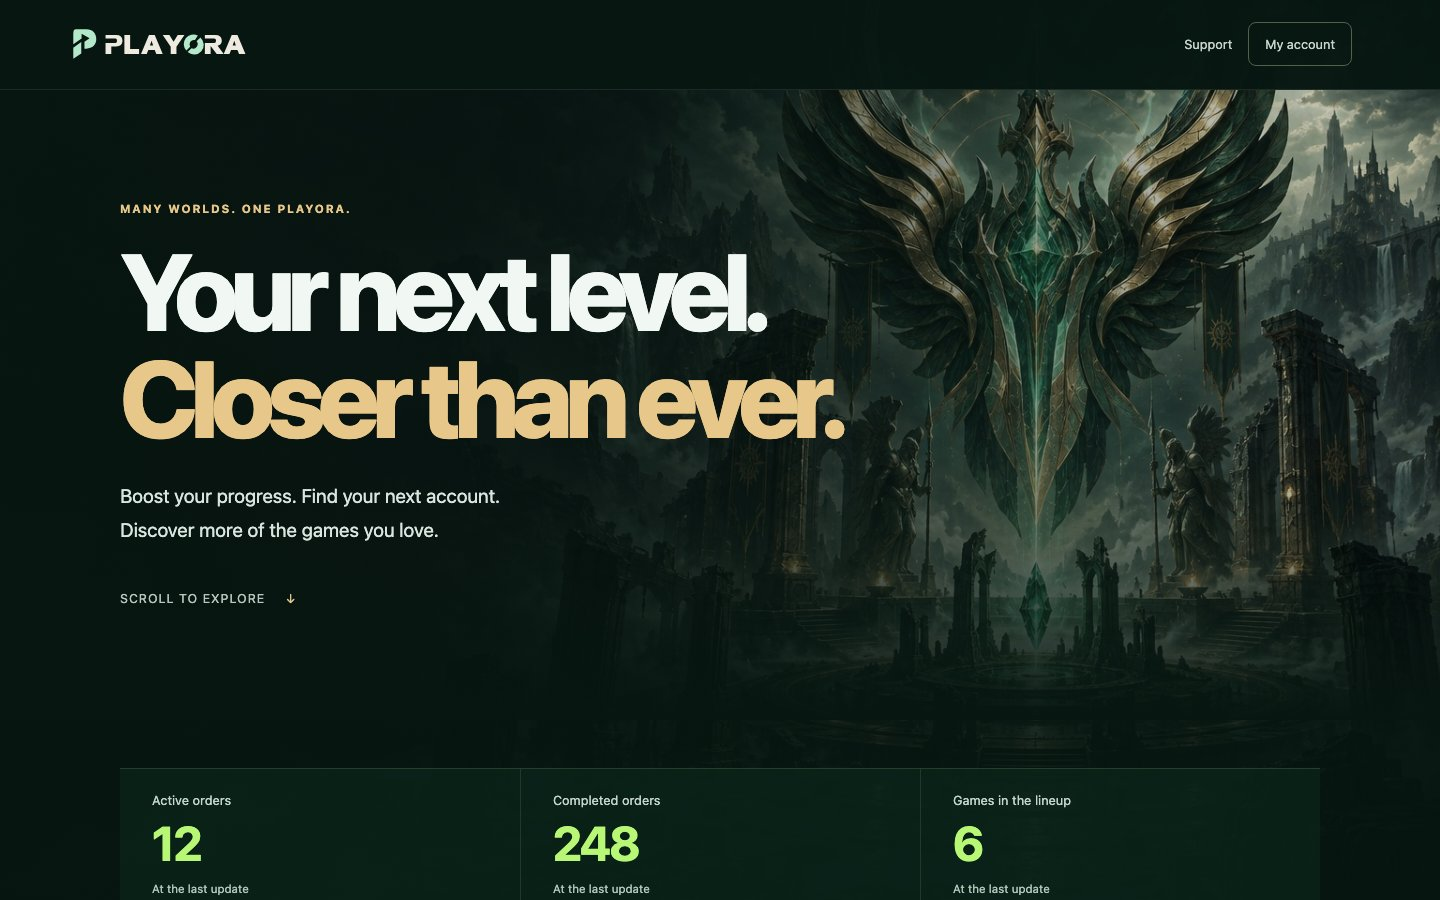
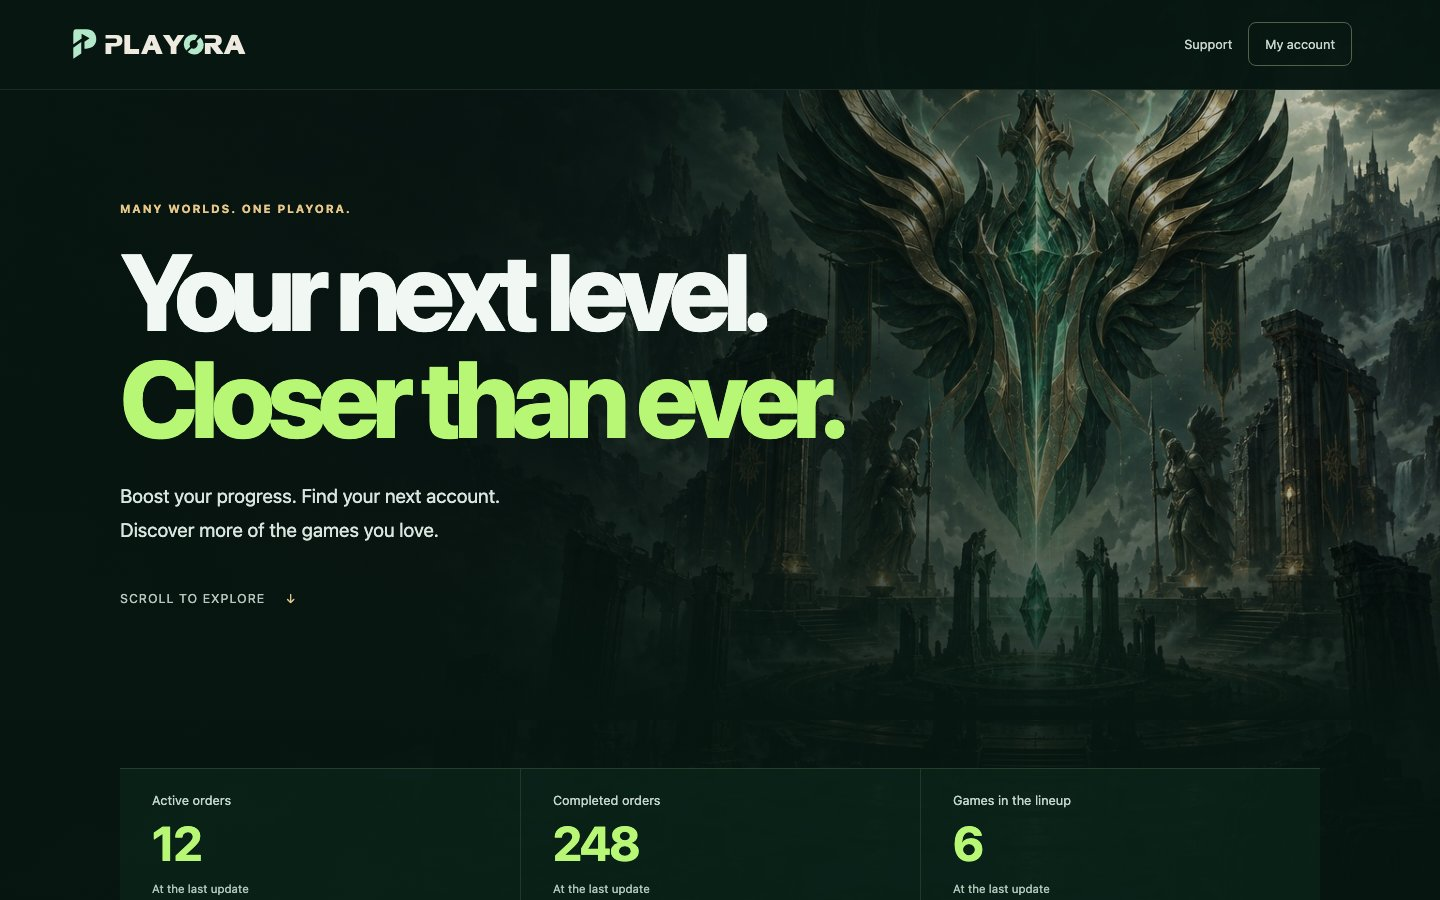
Keep green headlines in restrained champagne preview

Changed region(s): [[0.0625, 0.4044, 0.5938, 0.4978]]

diff --git a/docs/redesign/color-study-2026-10-15/index.html b/docs/redesign/color-study-2026-10-15/index.html
@@ -46,8 +46,9 @@
       </section>
       <div class="direction-note">
         <p id="direction-copy">
-          Your current green backgrounds, cards and buttons. Champagne adds
-          warmth to selected headlines, service icons and navigation details.
+          Your current green headlines, backgrounds and buttons. Champagne stays
+          in smaller details: service icons, section labels and navigation
+          markers.
         </p>
         <span id="palette-hex">Original green + #E7C78A</span>
       </div>
@@ -111,8 +112,8 @@
           <span class="role-dot secondary"></span>
           <h2>Champagne in the details</h2>
           <p>
-            Add warm emphasis to selected headlines, icons and navigation
-            markers.
+            Add warm emphasis to service icons, small section labels and
+            navigation markers.
           </p>
         </div>
         <div>

diff --git a/docs/redesign/color-study-2026-10-15/studio.js b/docs/redesign/color-study-2026-10-15/studio.js
@@ -3,7 +3,7 @@ const options = {
   "green-champagne": {
     name: "Green + champagne",
     accent: "#E7C78A",
-    copy: "Your current green backgrounds, cards and buttons. Champagne adds warmth to selected headlines, service icons and navigation details.",
+    copy: "Your current green headlines, backgrounds and buttons. Champagne stays in smaller details: service icons, section labels and navigation markers.",
   },
   current: {
     name: "Current theme",

diff --git a/docs/redesign/color-study-2026-10-15/champagne-accent.css b/docs/redesign/color-study-2026-10-15/champagne-accent.css
@@ -6,7 +6,6 @@ html[data-palette="green-champagne"] {
 
 html[data-palette="green-champagne"]
   :is(
-    .plus-home em,
     .home-kicker,
     .hero-scroll span,
     .service-symbol,

diff --git a/docs/redesign/color-study-2026-10-15/README.md b/docs/redesign/color-study-2026-10-15/README.md
@@ -6,17 +6,17 @@
 
 Keep the current PLAYORA theme exactly as the base. Add champagne across selected details so the site is not only green. The earlier charcoal/slate palette replacements changed too much; they are superseded by this additive treatment.
 
-The original green backgrounds, cards, image overlays, typography, normal text, logo, primary buttons and status colors stay unchanged. Champagne `#E7C78A` is a supporting accent, not a new background or a second primary-button color.
+The original green backgrounds, cards, image overlays, typography, headline emphasis, normal text, logo, primary buttons and status colors stay unchanged. Champagne `#E7C78A` is a supporting accent, not a new background or a second primary-button color.
 
 | Context | Champagne details | Original styling retained |
 | --- | --- | --- |
-| Homepage | Emphasized headline words, section labels, service-icon strokes and small decorative outlines | Green artwork/scrims, section surfaces, green buttons and statistics |
+| Homepage | Small section labels, service-icon strokes and small decorative outlines | Original green headline emphasis, artwork/scrims, section surfaces, green buttons and statistics |
 | Game services and packages | Service symbols, secondary explore/back links | Green cards, package artwork, white prices/titles, purchase/configure buttons |
 | Customer overview | Next-action links, section overline, thin selected-navigation marker | Green panels, navigation fill, ordinary labels and body copy |
 | Admin/pro | Selected-navigation marker, section overline and selected contextual links/icons | Green tables/forms/cards, normal row text, primary actions |
 | Chat/state sample | Protected-form badge detail | Message surfaces, input styles, validation/status colors and verification actions |
 
-The intended overall impression remains green. Do not increase the amount of gold across operational rows simply to match the homepage. Avoid gold paragraphs, full card outlines, prices or all sidebar labels. Existing mint-filled controls keep their readable original labels.
+The owner accepted a subtler preview refinement: the large headline and all other emphasized heading words stay in their original green. Champagne is limited to smaller details. The intended overall impression remains green. Do not increase the amount of gold across operational rows simply to match the homepage. Avoid gold paragraphs, full card outlines, prices or all sidebar labels. Existing mint-filled controls keep their readable original labels.
 
 ## Compare the revision
 
@@ -41,13 +41,13 @@ The preview uses current React components and artwork, a public catalog snapshot
 
 `champagne-accent.css` is an isolated preview layer. The older three replacement palettes match only their explicit historical modes and cannot affect this new direction. No frontend application file or deployment configuration changes in this revision.
 
-The maintained focused check compares all rendered element backgrounds/images and typography, primary-button colors, semantic status/error colors and image scrims before and after enabling champagne. All14 combinations (seven contexts ×1440/390px) passed. It also checks overflow/runtime errors and prevents real API mutations. Run it with the local preview server active:
+The maintained focused check compares all rendered element backgrounds/images and typography, primary-button colors, semantic status/error colors and image scrims before and after enabling champagne. The previous14 combinations (seven contexts ×1440/390px) remain recorded. For this refinement, it additionally protects heading descendants, prices and statistic numbers; only the affected homepage is rerun at1440/390px. It also checks overflow/runtime errors and attempted API mutations. Run it with the local preview server active:
 
 ```sh
-node docs/redesign/color-study-2026-10-15/verify-accent.mjs
+node docs/redesign/color-study-2026-10-15/verify-accent.mjs --home-only
 ```
 
-See [senior scoped review](../reviews/ACCENT157_2026-10-15.md) for rendered feedback and final verdict. The full application suite is not part of this design-only revision. Real-route integration and affected checks follow if the owner approves this preview for implementation.
+See [senior scoped review](../reviews/ACCENT158_2026-10-15.md) for rendered feedback and final verdict. The full application suite is not part of this design-only revision. Real-route integration and affected checks follow if the owner approves this preview for implementation.
 
 ## Earlier research
 

diff --git a/docs/redesign/reviews/ACCENT158_2026-10-15.md b/docs/redesign/reviews/ACCENT158_2026-10-15.md
@@ -1,0 +1,27 @@
+# Accent158 — restrained champagne, original green headlines
+
+15 October 2026 · Base `7d3c748` · Design preview only
+
+**PASS — no remaining actionable findings in this scope.**
+
+## Scope and implementation
+
+The owner requested applying the recommendation to keep the original green hero/headline emphasis and reserve champagne for smaller details. Removed only `.plus-home em` from the champagne accent selector. Section labels, service symbols, selected navigation markers and secondary links retain the preceding additive treatment. Studio explanatory copy and the saved homepage screenshot now match this direction. No application or production configuration changes.
+
+## Independent review
+
+`/root/seller155_senior_review` produced four passing rendered cases: Chromium at1440/390/320px and WebKit at390px. Evidence is retained in `.cache/palette158/senior/round1/`, including hero, service-section, game-heading and studio captures. The reviewer identified stale README wording; the primary agent corrected its homepage table and explanation to explicitly retain original green headline emphasis. No rendered overflow, axe, runtime or preserved-color failures were reported.
+
+The original reviewer did not deliver its final verdict before its turn was interrupted. `/root/accent158_final_review` independently read the scoped source and reviewed those completed rendered screenshots, then explicitly returned **PASS — no remaining actionable findings in this scope**. It confirmed that the restored green emphasis preserves hierarchy and champagne remains restrained in service icons, labels and small details. No further test run or reviewer implementation edit occurred.
+
+## Focused verification
+
+- Maintained `verify-accent.mjs` now protects heading descendants, prices and statistic numbers in addition to surfaces, typography, primary buttons, semantic colors and image scrims.
+- Only `--home-only` ran for this refinement: two cases at1440/390px passed, with no runtime errors, horizontal overflow or API mutation attempts. Results: `../color-study-2026-10-15/previews/accent/headline-results.json`.
+- The six unchanged page families were not rerun. Earlier evidence remains historical, not relabeled as a new full-suite pass.
+- Source formatting and whitespace checks passed. The normal repository-only hook is required for the design-stage commit.
+- Exact scoped source/capture hashes are recorded in `ACCENT158_source_sha256.json`.
+
+## Limits
+
+This is a scoped local preview review with synthetic data and browser viewport emulation, not physical-device or business-flow qualification. The complete application suite was not run. User selection and any later live theme implementation remain separate work.

diff --git a/docs/progress.md b/docs/progress.md
@@ -1,5 +1,9 @@
 # Implementation progress
 
+## Accent158 — smaller champagne details (15 October 2026)
+
+Applied the owner's requested preview refinement: original green emphasis is restored in all homepage headings, while champagne remains on service icons, small section labels, navigation markers and selected secondary links. Studio wording and the homepage screenshot are updated. The maintained regression now protects heading descendants, prices and statistic numbers; the two affected1440/390px cases passed without rerunning unchanged page families. Independent senior review returned PASS after inspecting four completed Chromium/WebKit cases and the scoped source. Application code and the live website remain unchanged. See [preview](redesign/color-study-2026-10-15/README.md) and [scoped review](redesign/reviews/ACCENT158_2026-10-15.md).
+
 ## Accent157 — keep green, add champagne (15 October 2026)
 
 The owner clarified that PLAYORA must retain its current theme and add champagne only in supporting details. The revised design studio now compares Current against Green + champagne across all seven page contexts; original green surfaces, image scrims, typography, primary actions and status meanings stay unchanged. The previous replacement-palette recommendation is superseded and retained as historical research. Senior visual and product reviewers returned PASS after20 paired rendered comparisons and six studio checks; the maintained14-case preservation regression and formatting passed. Eight full-size original/revised screenshots are saved. No application or live theme changes; owner review precedes implementation. See [revised proposal](redesign/color-study-2026-10-15/README.md) and [senior gate](redesign/reviews/ACCENT157_2026-10-15.md).
